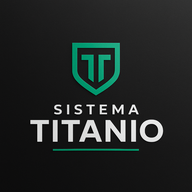
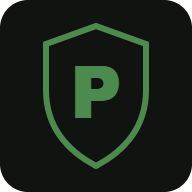
Arreglar icono de pantalla de inicio: quedaba el de Sistema Titanio
icon-192.png e icon-512.png todavia eran los archivos originales del
clon (logo y texto "SISTEMA TITANIO"), nunca se habian reemplazado.
Ademas apple-touch-icon apuntaba a icon.svg, que iOS no soporta ahi
(tiene que ser PNG) -- por eso Safari terminaba usando el icono viejo
del manifest en vez de ignorarlo.

- Genero icon-192.png / icon-512.png nuevos a partir del mismo diseno
  de icon.svg (escudo + "P"), rasterizado via canvas.
- apple-touch-icon ahora apunta a /icon-192.png en vez de /icon.svg.
- Subo CACHE_NAME del service worker a v2 para que a quien ya haya
  instalado la app con el icono viejo cacheado se le limpie solo y
  baje el correcto.

Probado en local: /icon-192.png ya no muestra el logo de Sistema
Titanio, cache v2 confirmado con el archivo nuevo (6512 bytes) despues
de limpiar el service worker anterior.

diff --git a/index.html b/index.html
@@ -9,7 +9,10 @@
 <meta name="theme-color" content="#111311">
 <link rel="manifest" href="/manifest.json">
 <link rel="icon" href="/icon.svg" type="image/svg+xml">
-<link rel="apple-touch-icon" href="/icon.svg">
+<!-- iOS no soporta SVG en apple-touch-icon: si se lo dejamos, Safari
+     ignora este ícono y termina usando el que encuentre en el manifest, que
+     por eso HAY que mantener bien actualizado también (ver manifest.json). -->
+<link rel="apple-touch-icon" href="/icon-192.png">
 <style>
 @import url('https://fonts.googleapis.com/css2?family=Oswald:wght@500;600;700;800&family=Inter:wght@400;500;600;700&display=swap');
 *,*::before,*::after{box-sizing:border-box}

diff --git a/sw.js b/sw.js
@@ -5,7 +5,7 @@
 // dejarla lista la próxima vez. Si algún día cambia mucho el contenido y
 // hace falta forzar que todos bajen la versión nueva, alcanza con subir el
 // número de CACHE_NAME de más abajo.
-const CACHE_NAME = 'calistenia-pro-v1';
+const CACHE_NAME = 'calistenia-pro-v2';
 const APP_SHELL = [
   '/', '/index.html', '/app.js', '/config.js', '/manifest.json',
   '/icon.svg', '/icon-192.png', '/icon-512.png',
